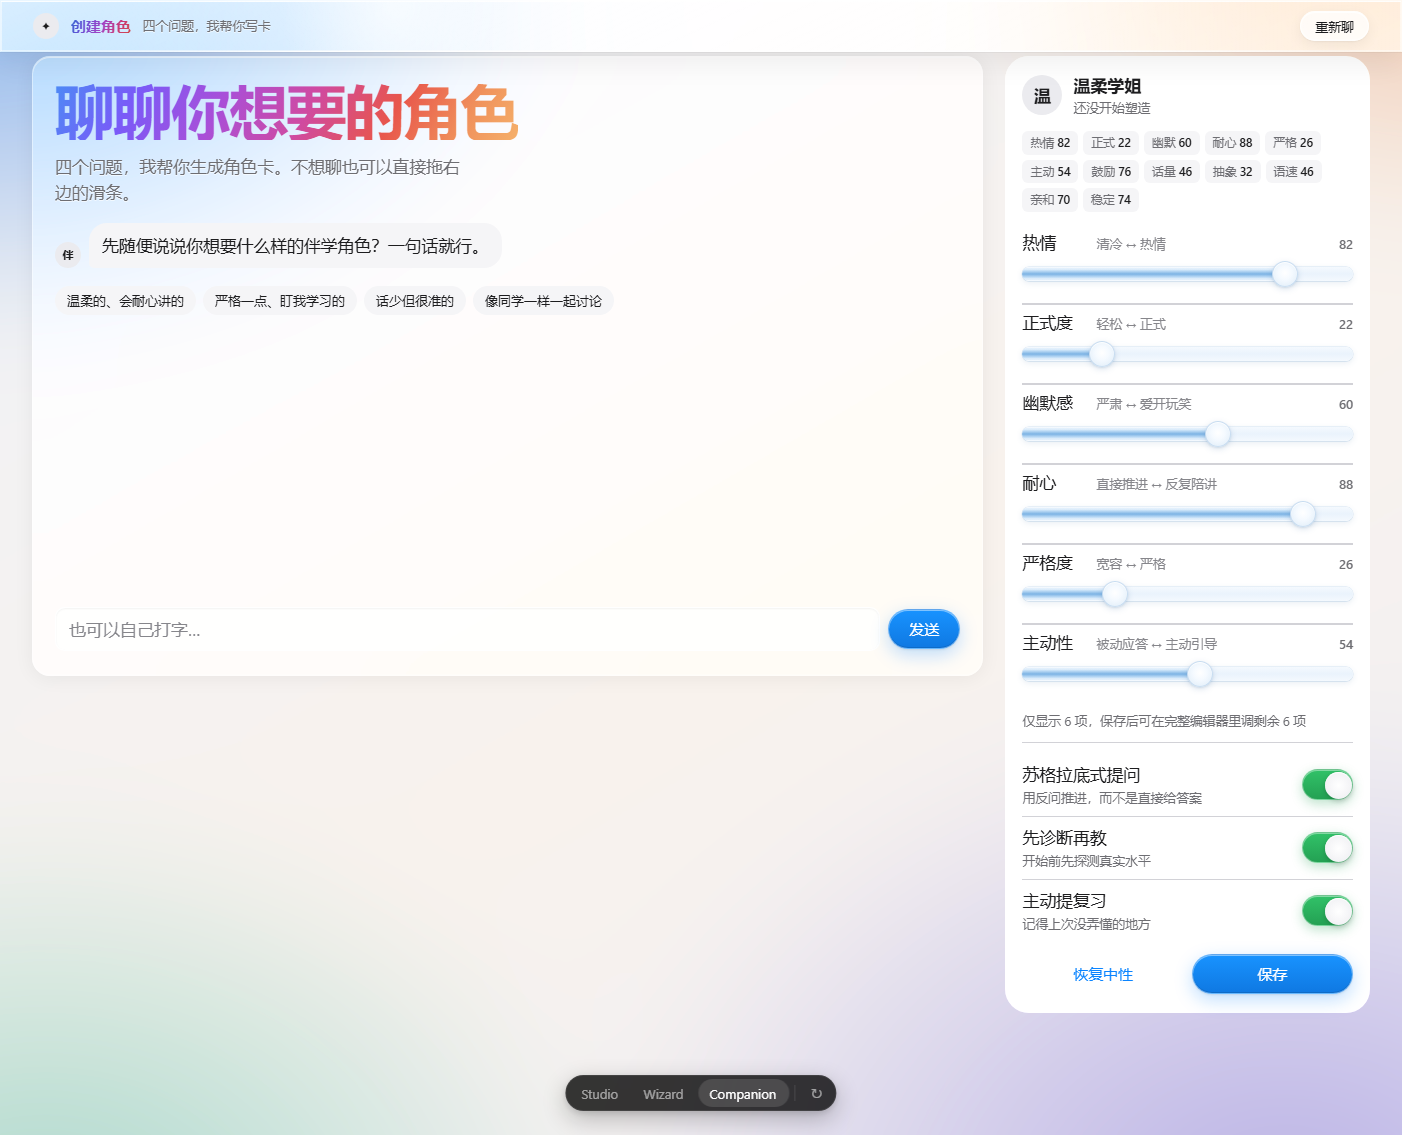
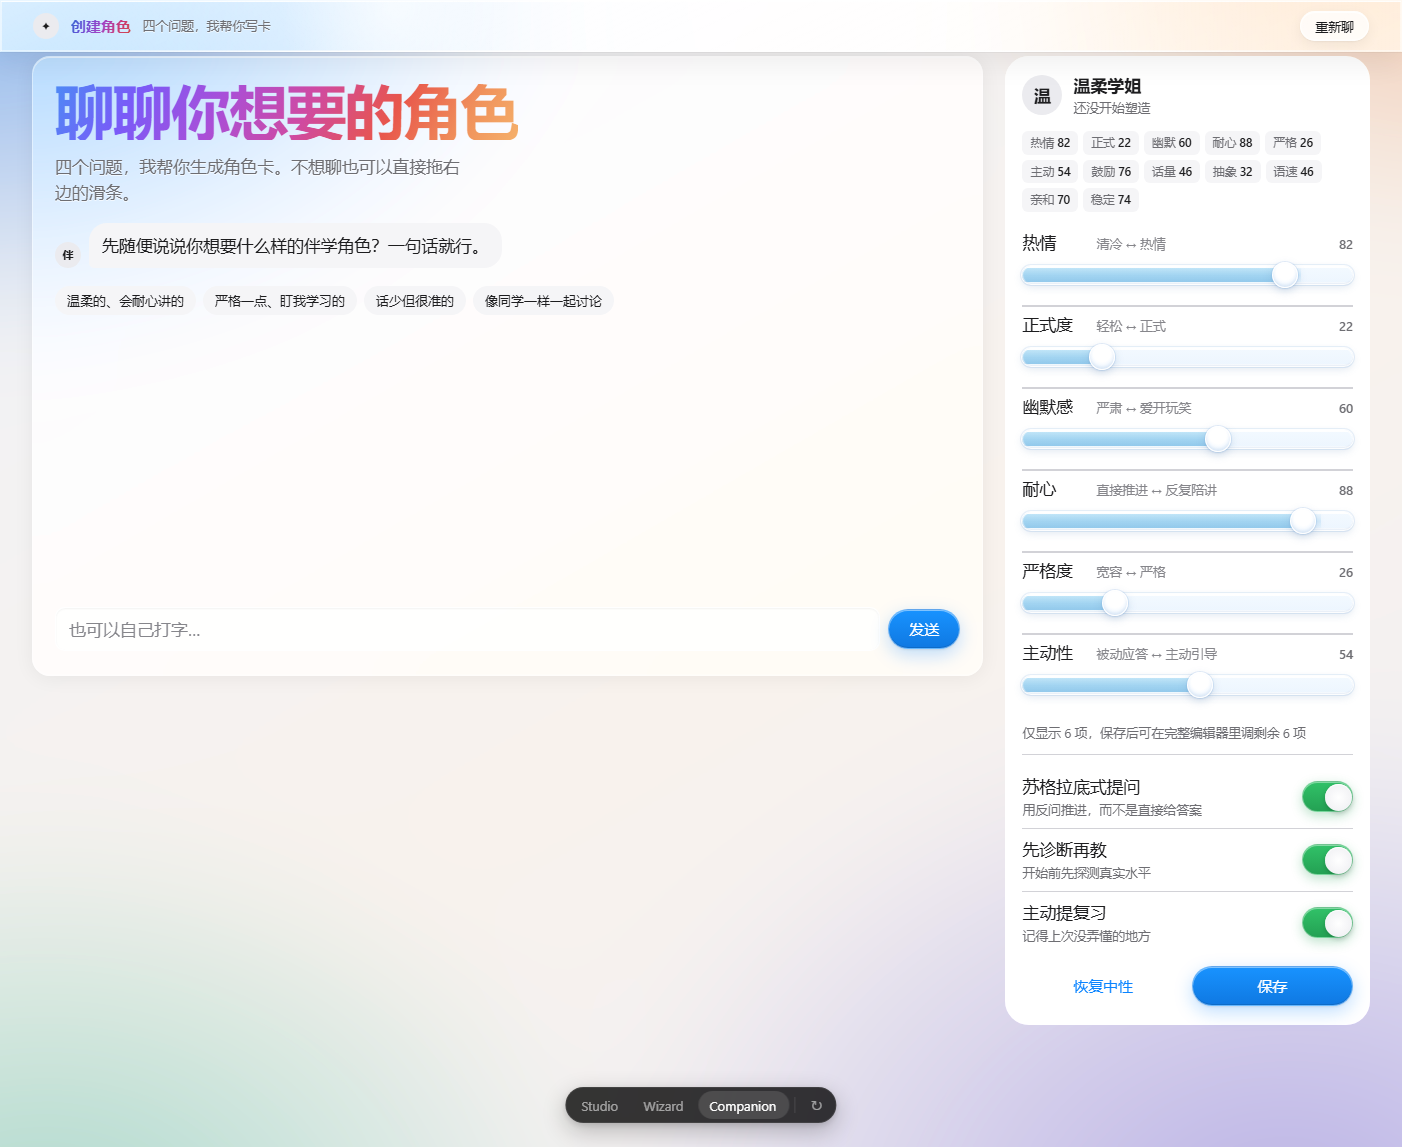
style(proto): 滑条填充改为磨砂玻璃蚀刻感
参考图是磨砂玻璃蚀刻：形状不是靠颜色填出来的，是靠【亮边】勾出来的。
淡蓝半透明体 + 更亮的描边 + 轻微外发光。

填充层从 1 层变成 6 层（从上到下）：
1. 顶部镜面高光带   9% 硬切
2. 底部反光带       8% 硬切，与顶部对称
3. 磨砂亮边         填充区上下各 1.5px 白蓝描边，宽度锁在 --pct
4. 磨砂体           乳蓝，上浅下深（186,228,248 -> 126,190,230）
5. 外发光           比填充宽 8px，越过滑块继续渗
6. 冰体             极淡蓝

关键：亮边那一层的背景尺寸也是 var(--pct)，所以描边只跟着填充区走，
不会画到未填充的空管上。

进度条填充同步：乳蓝体 + inset 上下各 1.5px 亮边。

控制台零错误。

diff --git a/prototypes/Costudy-UI-原型.html b/prototypes/Costudy-UI-原型.html
@@ -1798,30 +1798,47 @@ input[type="range"]::-webkit-slider-runnable-track {
   height: 18px;
   border-radius: var(--r-full);
   background-image:
-    /* ① 顶部镜面高光带：硬边，不糊 —— 冰块的通透感靠它 */
+    /* ① 顶部镜面高光带 */
     linear-gradient(
       180deg,
-      rgba(255, 255, 255, 0.92) 0%,
-      rgba(255, 255, 255, 0.92) 9%,
+      rgba(255, 255, 255, 0.9) 0%,
+      rgba(255, 255, 255, 0.9) 9%,
       rgba(255, 255, 255, 0) 10%,
       rgba(255, 255, 255, 0) 100%
     ),
-    /* ② 底部反光带：冰面从下方折回来的光 */
+    /* ② 底部反光带（与顶部对称，略窄） */
     linear-gradient(
       180deg,
       rgba(255, 255, 255, 0) 0%,
       rgba(255, 255, 255, 0) 91%,
-      rgba(255, 255, 255, 0.92) 92%,
-      rgba(255, 255, 255, 0.92) 100%
+      rgba(255, 255, 255, 0.9) 92%,
+      rgba(255, 255, 255, 0.9) 100%
     ),
-    /* ③ 蓝色填充：垂直三段渐变，宽度由 background-size 控到 --pct */
+    /* ③ 磨砂亮边：填色区域上下各 1.5px 的白蓝描边，勾出形状 */
     linear-gradient(
       180deg,
-      rgba(140, 203, 250, 0.4) 0%,
-      rgba(74, 158, 236, 0.58) 46%,
-      rgba(46, 130, 212, 0.68) 100%
+      rgba(240, 251, 255, 0.95) 0%,
+      rgba(240, 251, 255, 0.95) 1.5px,
+      rgba(240, 251, 255, 0) 2.5px,
+      rgba(240, 251, 255, 0) calc(100% - 2.5px),
+      rgba(232, 247, 255, 0.92) calc(100% - 1.5px),
+      rgba(232, 247, 255, 0.92) 100%
     ),
-    /* ④ 冰体：极淡蓝、接近透明 */
+    /* ④ 磨砂体：乳白偏蓝，上浅下深 */
+    linear-gradient(
+      180deg,
+      rgba(186, 228, 248, 0.72) 0%,
+      rgba(148, 205, 238, 0.82) 55%,
+      rgba(126, 190, 230, 0.86) 100%
+    ),
+    /* ⑤ 外发光：比填充更宽，越过滑块继续渗出一点 */
+    linear-gradient(
+      180deg,
+      rgba(160, 212, 244, 0) 0%,
+      rgba(160, 212, 244, 0.32) 50%,
+      rgba(160, 212, 244, 0) 100%
+    ),
+    /* ⑥ 冰体：极淡蓝 */
     linear-gradient(
       180deg,
       rgba(240, 248, 255, 0.82) 0%,
@@ -1831,10 +1848,11 @@ input[type="range"]::-webkit-slider-runnable-track {
     100% 100%,
     100% 100%,
     var(--pct, 50%) 100%,
+    var(--pct, 50%) 100%,
+    calc(var(--pct, 50%) + 8px) 100%,
     100% 100%;
-  background-position: 0 0, 0 0, 0 0, 0 0;
+  background-position: 0 0, 0 0, 0 0, 0 0, 0 0, 0 0;
   background-repeat: no-repeat;
-  /* 外壁饱满：白圈 + 淡蓝圈 + 顶壁强高光 + 底壁暗边 + 投影 */
   box-shadow:
     0 0 0 1px rgba(255, 255, 255, 0.95),
     0 0 0 2px rgba(148, 186, 228, 0.22),
@@ -1915,20 +1933,26 @@ input[type="range"]:active::-webkit-slider-thumb {
 .bar > i,
 .v-wiz .bar > i,
 .v-comp .bar > i,
+.bar > i,
+.v-wiz .bar > i,
+.v-comp .bar > i,
 .v-studio .bar > i {
   position: absolute;
   top: 0;
   left: 0;
   height: 100%;
   border-radius: var(--r-full);
-  /* 透明的蓝，硬边，不插值 */
+  /* 磨砂乳蓝体 */
   background-image: linear-gradient(
     180deg,
-    rgba(140, 203, 250, 0.4) 0%,
-    rgba(74, 158, 236, 0.58) 46%,
-    rgba(46, 130, 212, 0.68) 100%
+    rgba(186, 228, 248, 0.74) 0%,
+    rgba(148, 205, 238, 0.84) 55%,
+    rgba(126, 190, 230, 0.88) 100%
   );
-  box-shadow: inset 0 1px 0 rgba(255, 255, 255, 0.75);
+  /* 上下亮边勾形状，和滑条一致 */
+  box-shadow:
+    inset 0 1.5px 0 rgba(240, 251, 255, 0.95),
+    inset 0 -1.5px 0 rgba(232, 247, 255, 0.9);
   transition: width var(--dur-modal) var(--ease-out);
 }
 

diff --git a/prototypes/costudy-ui/liquid-glass.css b/prototypes/costudy-ui/liquid-glass.css
@@ -998,30 +998,47 @@ input[type="range"]::-webkit-slider-runnable-track {
   height: 18px;
   border-radius: var(--r-full);
   background-image:
-    /* ① 顶部镜面高光带：硬边，不糊 —— 冰块的通透感靠它 */
+    /* ① 顶部镜面高光带 */
     linear-gradient(
       180deg,
-      rgba(255, 255, 255, 0.92) 0%,
-      rgba(255, 255, 255, 0.92) 9%,
+      rgba(255, 255, 255, 0.9) 0%,
+      rgba(255, 255, 255, 0.9) 9%,
       rgba(255, 255, 255, 0) 10%,
       rgba(255, 255, 255, 0) 100%
     ),
-    /* ② 底部反光带：冰面从下方折回来的光 */
+    /* ② 底部反光带（与顶部对称，略窄） */
     linear-gradient(
       180deg,
       rgba(255, 255, 255, 0) 0%,
       rgba(255, 255, 255, 0) 91%,
-      rgba(255, 255, 255, 0.92) 92%,
-      rgba(255, 255, 255, 0.92) 100%
+      rgba(255, 255, 255, 0.9) 92%,
+      rgba(255, 255, 255, 0.9) 100%
     ),
-    /* ③ 蓝色填充：垂直三段渐变，宽度由 background-size 控到 --pct */
+    /* ③ 磨砂亮边：填色区域上下各 1.5px 的白蓝描边，勾出形状 */
     linear-gradient(
       180deg,
-      rgba(140, 203, 250, 0.4) 0%,
-      rgba(74, 158, 236, 0.58) 46%,
-      rgba(46, 130, 212, 0.68) 100%
+      rgba(240, 251, 255, 0.95) 0%,
+      rgba(240, 251, 255, 0.95) 1.5px,
+      rgba(240, 251, 255, 0) 2.5px,
+      rgba(240, 251, 255, 0) calc(100% - 2.5px),
+      rgba(232, 247, 255, 0.92) calc(100% - 1.5px),
+      rgba(232, 247, 255, 0.92) 100%
     ),
-    /* ④ 冰体：极淡蓝、接近透明 */
+    /* ④ 磨砂体：乳白偏蓝，上浅下深 */
+    linear-gradient(
+      180deg,
+      rgba(186, 228, 248, 0.72) 0%,
+      rgba(148, 205, 238, 0.82) 55%,
+      rgba(126, 190, 230, 0.86) 100%
+    ),
+    /* ⑤ 外发光：比填充更宽，越过滑块继续渗出一点 */
+    linear-gradient(
+      180deg,
+      rgba(160, 212, 244, 0) 0%,
+      rgba(160, 212, 244, 0.32) 50%,
+      rgba(160, 212, 244, 0) 100%
+    ),
+    /* ⑥ 冰体：极淡蓝 */
     linear-gradient(
       180deg,
       rgba(240, 248, 255, 0.82) 0%,
@@ -1031,10 +1048,11 @@ input[type="range"]::-webkit-slider-runnable-track {
     100% 100%,
     100% 100%,
     var(--pct, 50%) 100%,
+    var(--pct, 50%) 100%,
+    calc(var(--pct, 50%) + 8px) 100%,
     100% 100%;
-  background-position: 0 0, 0 0, 0 0, 0 0;
+  background-position: 0 0, 0 0, 0 0, 0 0, 0 0, 0 0;
   background-repeat: no-repeat;
-  /* 外壁饱满：白圈 + 淡蓝圈 + 顶壁强高光 + 底壁暗边 + 投影 */
   box-shadow:
     0 0 0 1px rgba(255, 255, 255, 0.95),
     0 0 0 2px rgba(148, 186, 228, 0.22),
@@ -1115,19 +1133,25 @@ input[type="range"]:active::-webkit-slider-thumb {
 .bar > i,
 .v-wiz .bar > i,
 .v-comp .bar > i,
+.bar > i,
+.v-wiz .bar > i,
+.v-comp .bar > i,
 .v-studio .bar > i {
   position: absolute;
   top: 0;
   left: 0;
   height: 100%;
   border-radius: var(--r-full);
-  /* 透明的蓝，硬边，不插值 */
+  /* 磨砂乳蓝体 */
   background-image: linear-gradient(
     180deg,
-    rgba(140, 203, 250, 0.4) 0%,
-    rgba(74, 158, 236, 0.58) 46%,
-    rgba(46, 130, 212, 0.68) 100%
+    rgba(186, 228, 248, 0.74) 0%,
+    rgba(148, 205, 238, 0.84) 55%,
+    rgba(126, 190, 230, 0.88) 100%
   );
-  box-shadow: inset 0 1px 0 rgba(255, 255, 255, 0.75);
+  /* 上下亮边勾形状，和滑条一致 */
+  box-shadow:
+    inset 0 1.5px 0 rgba(240, 251, 255, 0.95),
+    inset 0 -1.5px 0 rgba(232, 247, 255, 0.9);
   transition: width var(--dur-modal) var(--ease-out);
 }
